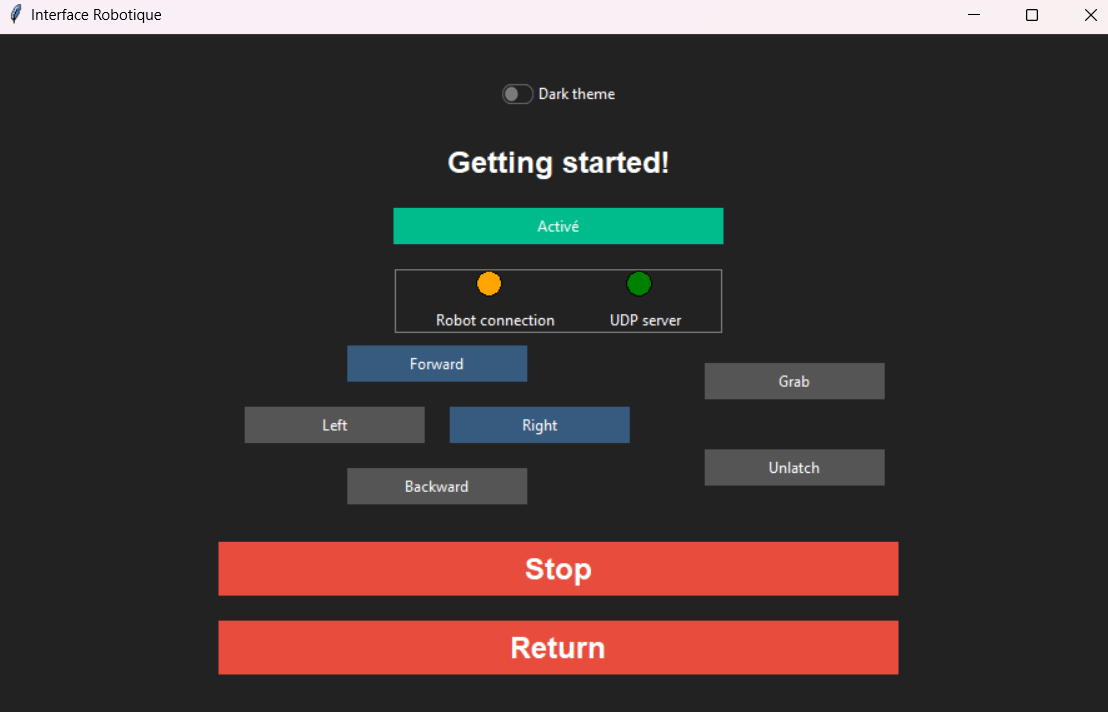
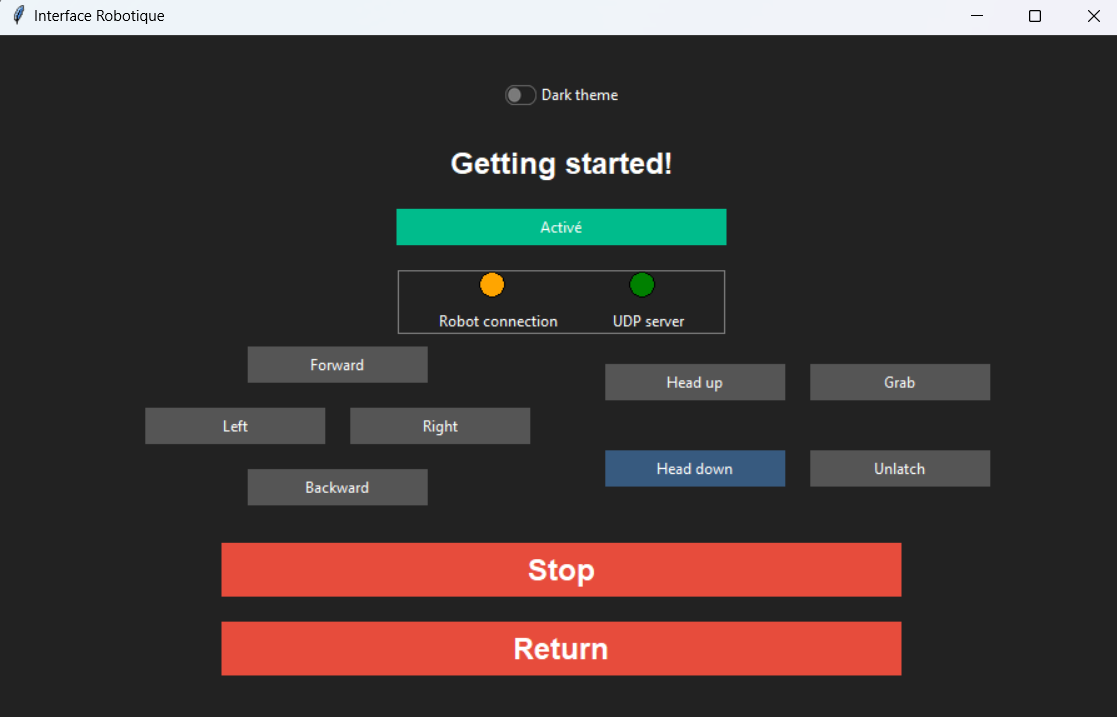
added head control buttons,updated screenshot, added logs file and updated readme.md

diff --git a/README.md b/README.md
@@ -1,6 +1,12 @@
 # Projet_IHR
 Projet Interaction Humain/ Robot Mobile
 
+# To install
+    pip install tkinter
+    python -m pip install ttkbootstrap
+    pip install bcrypt
+    
+# Screenshots
 Main window
 ![Main window](./screenshots/main.png)
 Controll window
@@ -10,7 +16,4 @@ Login for configuration
 Configuration
 ![Configuration](./screenshots/configuration.png)
 
-# To install
-    pip install tkinter
-    python -m pip install ttkbootstrap
-    pip install bcrypt
+
